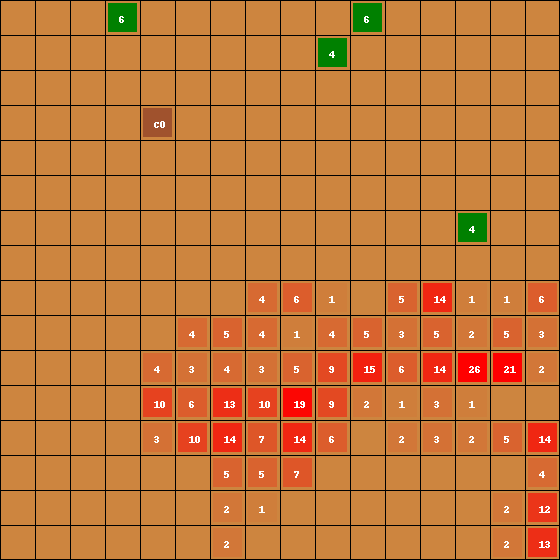
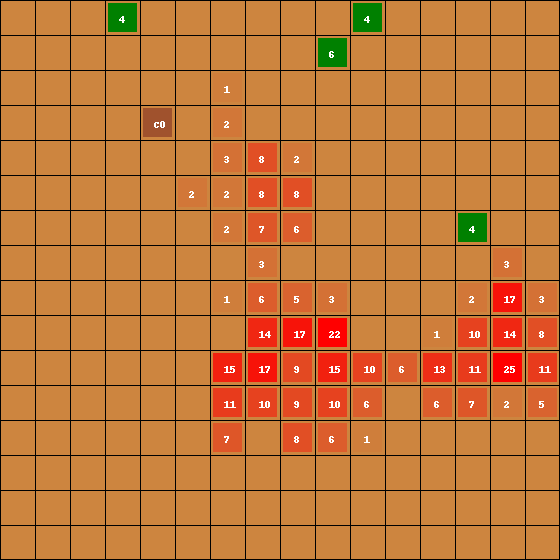
DOUBLE

Changed region(s): [[0.2429, 0.4857, 1.0, 1.0], [0.425, 0.2429, 0.5768, 0.4554]]

diff --git a/Project/multi_agent_teams.py b/Project/multi_agent_teams.py
@@ -107,7 +107,7 @@ if __name__ == '__main__':
     opt = parser.parse_args()
 
     # 1 - Setup the environment
-    environment = AntColonyEnv(grid_shape=(16, 16), n_agents=4, max_steps=opt.steps, n_foodpiles=4, n_episodes=opt.episodes, pheromone_evaporation_rate=0.5)
+    environment = AntColonyEnv(grid_shape=(16, 16), n_agents=4, max_steps=opt.steps, n_foodpiles=4, n_episodes=opt.episodes, pheromone_evaporation_rate=2)
 
     # 3 - Evaluate teams
     results = run_multi_agent(environment, opt.episodes, opt.steps)
